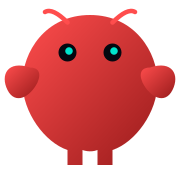
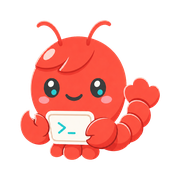
fix: session detail default panel, label uniqueness, sidebar width
- 会话详情页右侧面板默认不展开 (sidePanelVisible: true -> false)
- 新建会话时 label 追加唯一后缀，避免重复内容/表情导致创建失败
- 侧边栏宽度固定 288px，Nav 改用 width:100% 消除 flex 宽度抖动

diff --git a/src/lib/new-session.ts b/src/lib/new-session.ts
@@ -44,13 +44,14 @@ export function buildNewSessionCreateParams(options: {
   const peerKey = generateDashboardPeerKey();
   const sessionKey = buildDashboardSessionKey(options.agentId, peerKey);
   const title = extractSessionMessageText(options.content).trim();
+  const uniqueSuffix = Date.now().toString(36).slice(-4);
 
   return {
     request: {
       agentId: options.agentId,
       key: sessionKey,
       model: options.model,
-      label: title || undefined,
+      label: title ? `${title.slice(0, 36)} · ${uniqueSuffix}` : undefined,
     },
     agentId: options.agentId,
     key: sessionKey,

diff --git a/src/pages/MainPage.tsx b/src/pages/MainPage.tsx
@@ -169,6 +169,9 @@ export default function MainPage() {
         <Layout style={{height: '100vh', boxSizing: 'border-box'}}>
             <Sider
                 style={{
+                    flex: '0 0 288px',
+                    width: 288,
+                    overflow: 'hidden',
                     backgroundColor: 'var(--semi-color-bg-1)',
                     display: 'flex',
                     flexDirection: 'column',

diff --git a/index.html b/index.html
@@ -3,6 +3,8 @@
   <head>
     <meta charset="UTF-8" />
     <meta name="viewport" content="width=device-width, initial-scale=1.0" />
+    <link rel="icon" type="image/png" href="/src/assets/apple-touch-icon.png" />
+    <link rel="apple-touch-icon" href="/src/assets/apple-touch-icon.png" />
     <title>OpenClaw Desktop</title>
     <style>
       body { margin: 0; }

diff --git a/src/components/Sidebar.tsx b/src/components/Sidebar.tsx
@@ -628,7 +628,7 @@ export default function Sidebar({ onAddInstance, onOpenDrawer }: SidebarProps) {
         mode="vertical"
         selectedKeys={[activeKey]}
         onSelect={handleSelect}
-        style={{ flex: 1, paddingTop: sidebarTopInset, boxSizing: 'border-box' }}
+        style={{ width: '100%', paddingTop: sidebarTopInset, boxSizing: 'border-box' }}
         header={{
           logo: instanceAvatar,
           text: instanceHeaderText,

diff --git a/src/pages/SessionChatPage.tsx b/src/pages/SessionChatPage.tsx
@@ -659,7 +659,7 @@ export default function SessionChatPage() {
   const [allHistory, setAllHistory] = useState<DisplayChat[]>([]);
   const [selectedToolCall, setSelectedToolCall] = useState<SelectedToolCall | null>(null);
   const [sidePanelTab, setSidePanelTab] = useState('overview');
-  const [sidePanelVisible, setSidePanelVisible] = useState(true);
+  const [sidePanelVisible, setSidePanelVisible] = useState(false);
   const [sessionContextSnapshot, setSessionContextSnapshot] = useState<SessionContextSnapshot | null>(null);
   const [pageDragActive, setPageDragActive] = useState(false);
 